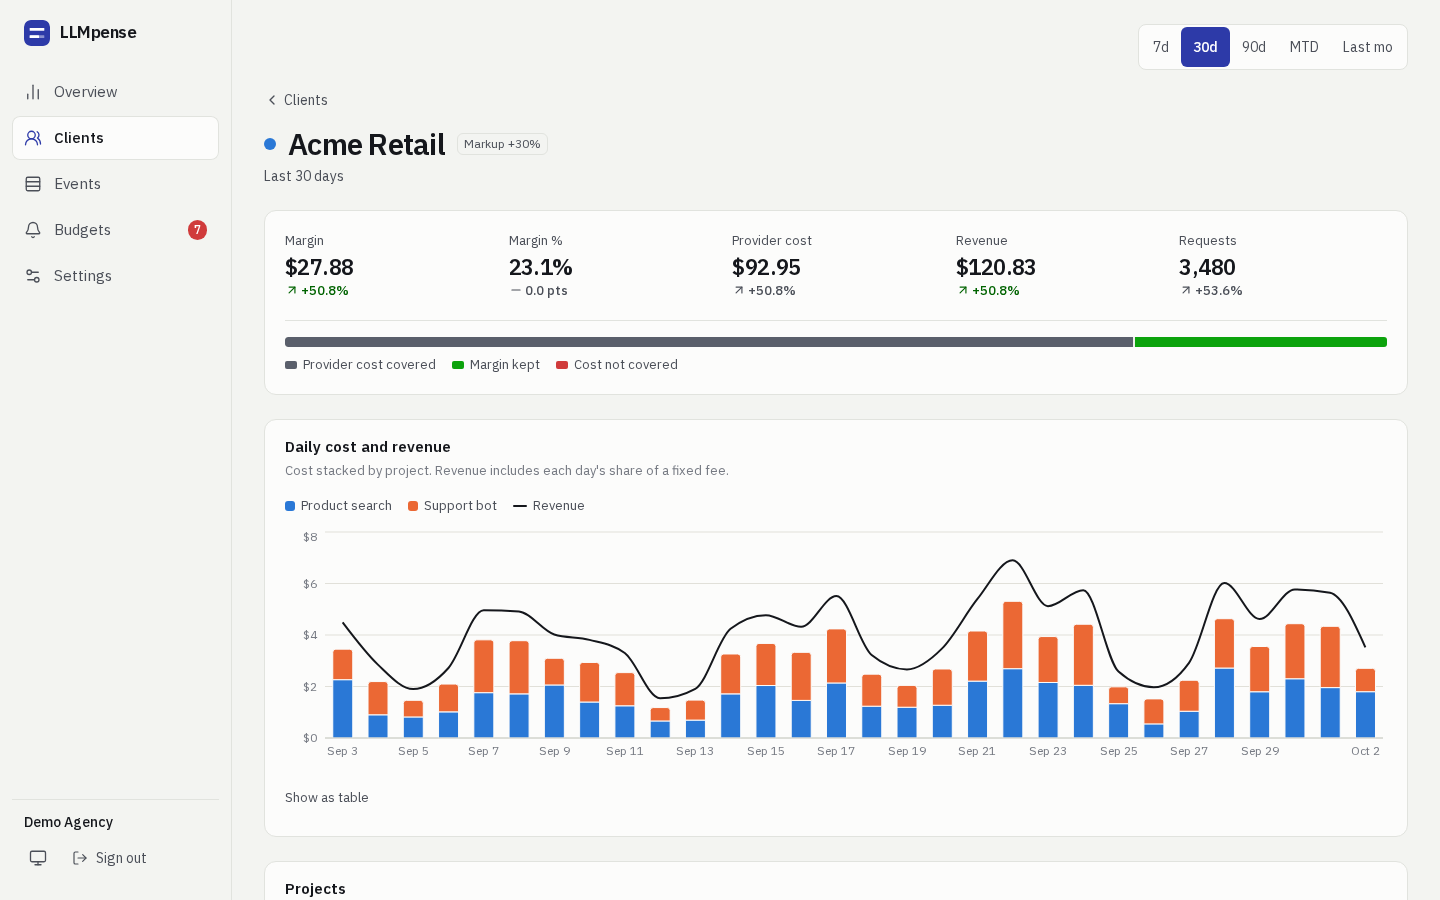
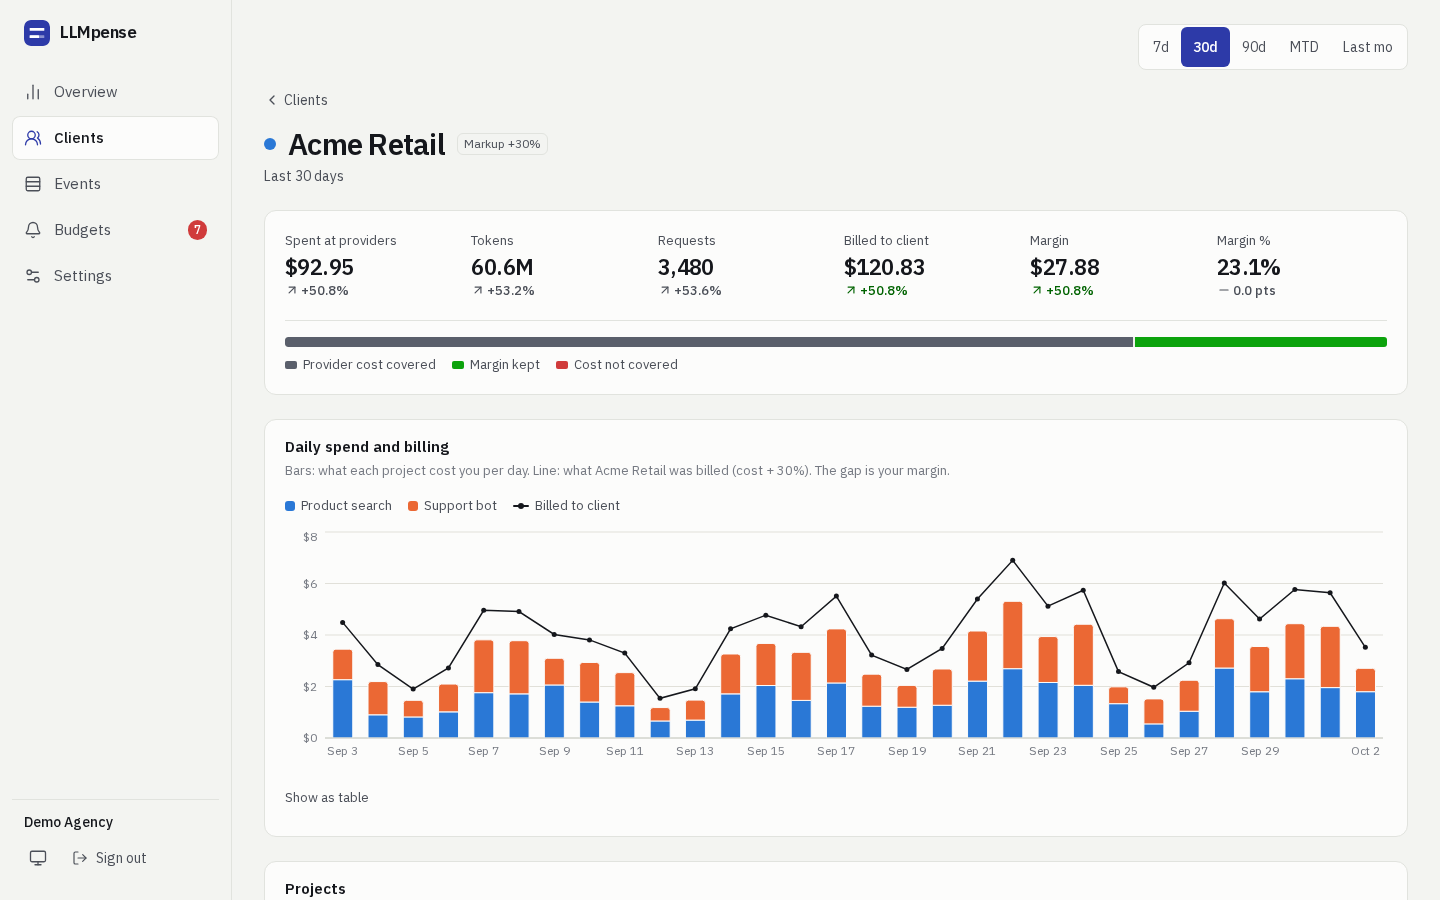
feat(web): lead client detail with spend and explain the billed line
The client page now starts with spend, tokens and requests, followed by
billed amount and margin. The daily chart's line is labelled "Billed to
client", drawn as one point per day instead of a smoothed curve, and its
subtitle explains it for the client's billing mode; absorbed clients get
no line. README screenshots retaken.

diff --git a/apps/web/app/(app)/clients/[id]/page.tsx b/apps/web/app/(app)/clients/[id]/page.tsx
@@ -5,7 +5,7 @@ import { ChevronLeft, Download } from "lucide-react";
 import { getCurrentOrg } from "@/lib/org.ts";
 import { clientBreakdown, clientDaily, clientMargins, clientMonths, getClient, listProjects } from "@/lib/queries.ts";
 import { resolveRange } from "@/lib/range.ts";
-import { count, delta, pct, usd } from "@/lib/format.ts";
+import { compactNum, count, delta, pct, usd } from "@/lib/format.ts";
 import { DailyChart, type Series } from "@/components/daily-chart.tsx";
 import { Breakdown } from "@/components/breakdown.tsx";
 import { BillingBadge, ClientDot, Delta, FrozenNote, LossTag, MarginBar, MarginBarLegend, Panel } from "@/components/ui.tsx";
@@ -70,17 +70,12 @@ export default async function ClientPage({ params, searchParams }: Props) {
       </div>
 
       <section aria-label="Key figures" className="rounded-xl border border-line bg-surface p-4 lg:p-5">
-        <dl className="grid grid-cols-2 gap-x-4 gap-y-4 lg:grid-cols-5">
-          <Fig label="Margin" value={usd(cur.marginUsd)} loss={cur.marginUsd < 0} d={<Delta value={delta(cur.marginUsd, prev.marginUsd)} />} />
+        <dl className="grid grid-cols-2 gap-x-4 gap-y-4 sm:grid-cols-3 xl:grid-cols-6">
+          <Fig label="Spent at providers" value={usd(cur.costUsd)} d={<Delta value={delta(cur.costUsd, prev.costUsd)} good="neutral" />} />
+          <Fig label="Tokens" value={compactNum(cur.tokens)} d={<Delta value={delta(cur.tokens, prev.tokens)} good="neutral" />} />
+          <Fig label="Requests" value={count(cur.requests)} d={<Delta value={delta(cur.requests, prev.requests)} good="neutral" />} />
           <Fig
-            label="Margin %"
-            value={pct(cur.marginPct)}
-            loss={cur.marginPct !== null && cur.marginPct < 0}
-            d={<Delta value={cur.marginPct !== null && prev.marginPct !== null ? cur.marginPct - prev.marginPct : null} kind="points" />}
-          />
-          <Fig label="Provider cost" value={usd(cur.costUsd)} d={<Delta value={delta(cur.costUsd, prev.costUsd)} good="neutral" />} />
-          <Fig
-            label="Revenue"
+            label="Billed to client"
             value={usd(cur.revenueUsd)}
             d={
               cur.fixedFeeUsd > 0 ? (
@@ -90,7 +85,13 @@ export default async function ClientPage({ params, searchParams }: Props) {
               )
             }
           />
-          <Fig label="Requests" value={count(cur.requests)} d={<Delta value={delta(cur.requests, prev.requests)} good="neutral" />} />
+          <Fig label="Margin" value={usd(cur.marginUsd)} loss={cur.marginUsd < 0} d={<Delta value={delta(cur.marginUsd, prev.marginUsd)} />} />
+          <Fig
+            label="Margin %"
+            value={pct(cur.marginPct)}
+            loss={cur.marginPct !== null && cur.marginPct < 0}
+            d={<Delta value={cur.marginPct !== null && prev.marginPct !== null ? cur.marginPct - prev.marginPct : null} kind="points" />}
+          />
         </dl>
         <div className="mt-4 border-t border-line pt-4">
           <MarginBar cost={cur.costUsd} revenue={cur.revenueUsd} scale={Math.max(cur.costUsd, cur.revenueUsd)} />
@@ -100,12 +101,12 @@ export default async function ClientPage({ params, searchParams }: Props) {
         </div>
       </section>
 
-      <Panel title="Daily cost and revenue" sub="Cost stacked by project. Revenue includes each day's share of a fixed fee.">
+      <Panel title="Daily spend and billing" sub={billingLineNote(client)}>
         <DailyChart
           data={daily as never}
           series={series}
-          line={{ key: "revenue", name: "Revenue" }}
-          caption={`Daily cost by project and revenue for ${client.name}`}
+          line={client.billingMode === "absorbed" ? undefined : { key: "revenue", name: "Billed to client" }}
+          caption={`Daily spend by project and amount billed to ${client.name}`}
         />
       </Panel>
 
@@ -162,4 +163,19 @@ function Fig({ label, value, d, loss = false }: { label: string; value: string; 
       <dd>{d}</dd>
     </div>
   );
+}
+
+/** Explains the chart's billed line for the client's billing mode. */
+function billingLineNote(c: { name: string; billingMode: string; markupPct: number; fixedFeeUsd: number }): string {
+  const bars = "Bars: what each project cost you per day.";
+  switch (c.billingMode) {
+    case "markup":
+      return `${bars} Line: what ${c.name} was billed (cost + ${c.markupPct}%). The gap is your margin.`;
+    case "passthrough":
+      return `${bars} Line: what ${c.name} was billed. Billed at cost, so it sits on top of the bars.`;
+    case "fixed":
+      return `${bars} Line: each day's share of the ${usd(c.fixedFeeUsd)} monthly fixed fee. Where it sits above the bars, you keep the difference.`;
+    default:
+      return `${bars} You absorb this client's AI cost; nothing is billed.`;
+  }
 }

diff --git a/apps/web/components/daily-chart.tsx b/apps/web/components/daily-chart.tsx
@@ -85,7 +85,9 @@ export function DailyChart({
           ))}
           {line && (
             <li className="inline-flex items-center gap-1.5">
-              <span aria-hidden className="inline-block h-0.5 w-3.5 rounded bg-ink" />
+              <span aria-hidden className="relative inline-block h-0.5 w-4 rounded bg-ink">
+                <span className="absolute top-1/2 left-1/2 size-1.5 -translate-x-1/2 -translate-y-1/2 rounded-full bg-ink" />
+              </span>
               {line.name}
             </li>
           )}
@@ -142,10 +144,11 @@ export function DailyChart({
               <Line
                 dataKey={line.key}
                 name={line.name}
-                type="monotone"
+                // One value per day: straight segments with a dot over each bar, not a smoothed trend.
+                type="linear"
                 stroke="var(--ink)"
-                strokeWidth={2}
-                dot={false}
+                strokeWidth={1.5}
+                dot={{ r: 2.5, stroke: "var(--ink)", strokeWidth: 0, fill: "var(--ink)" }}
                 activeDot={{ r: 4, stroke: "var(--surface)", strokeWidth: 2, fill: "var(--ink)" }}
                 isAnimationActive={false}
               />
